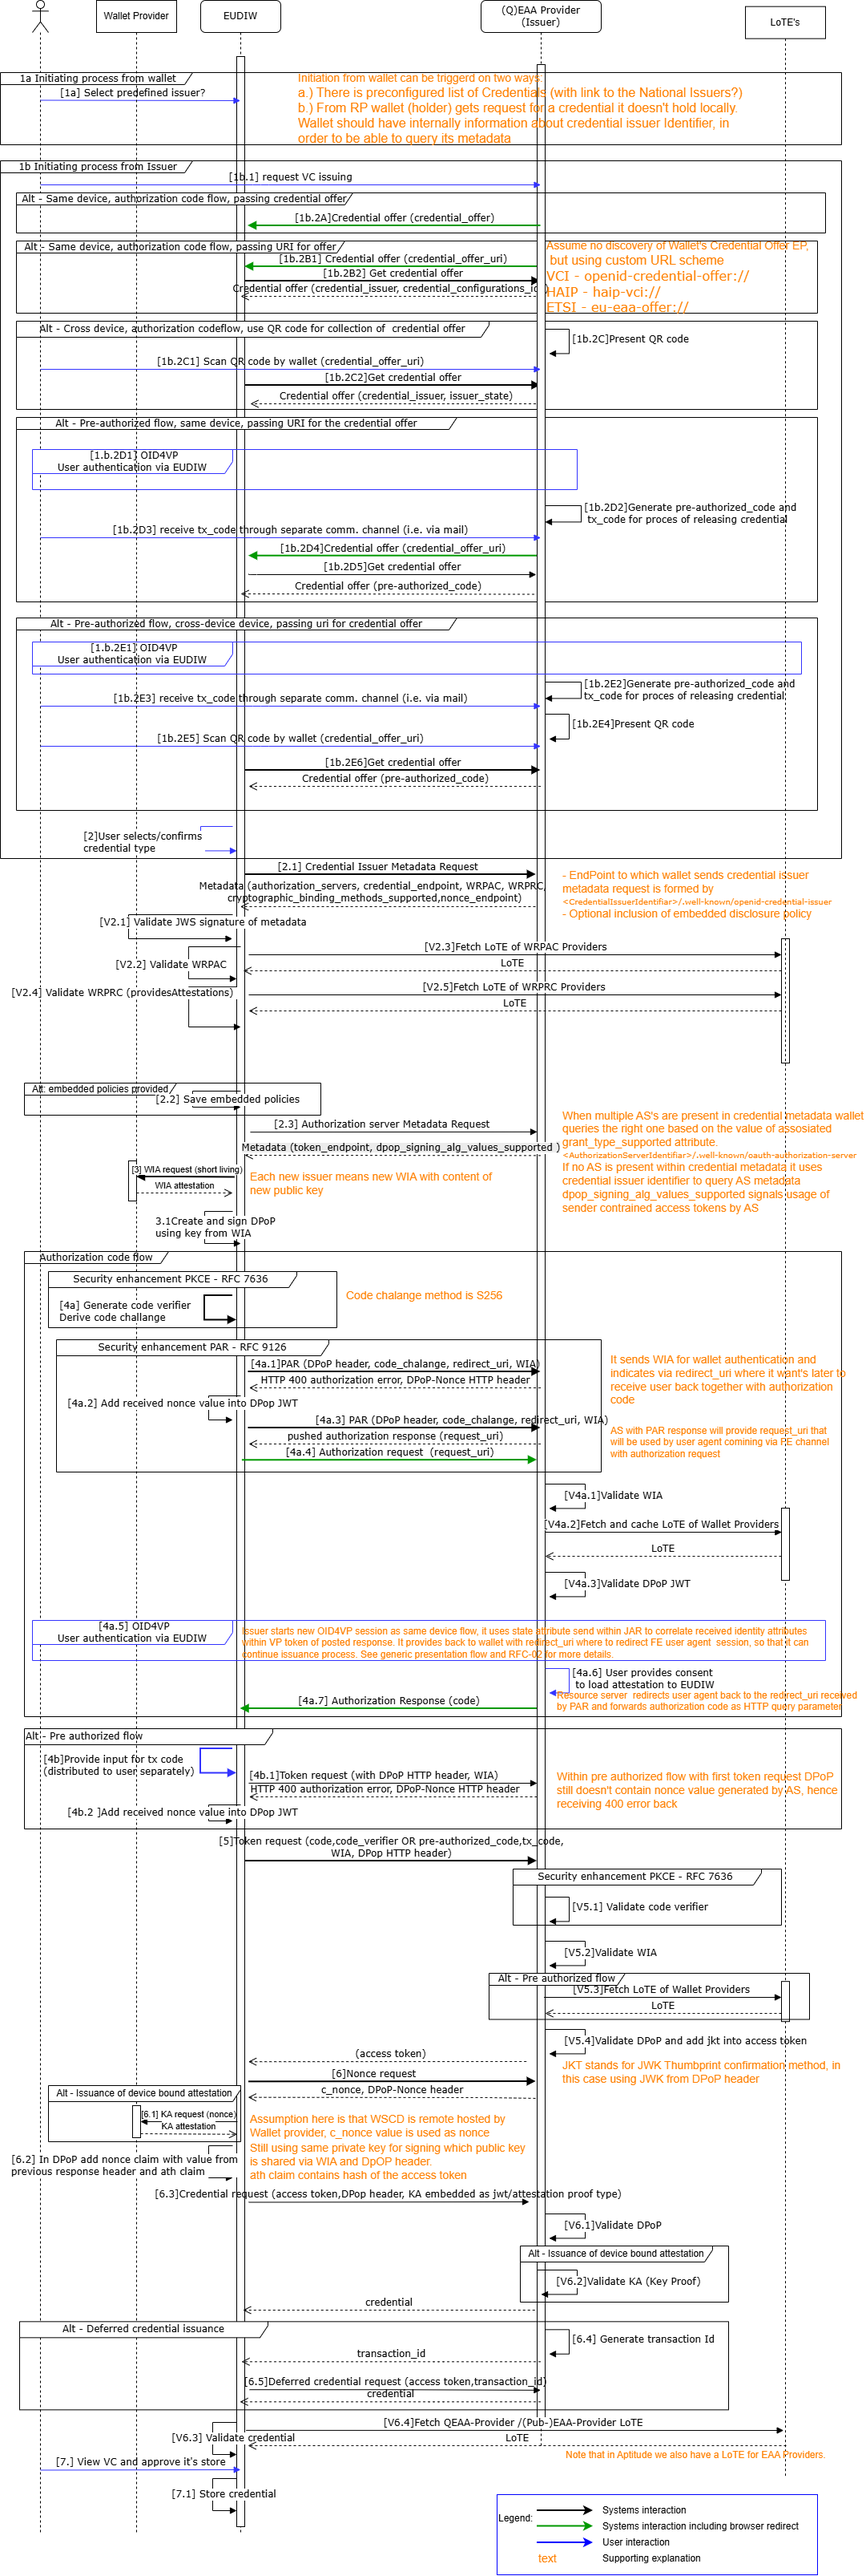
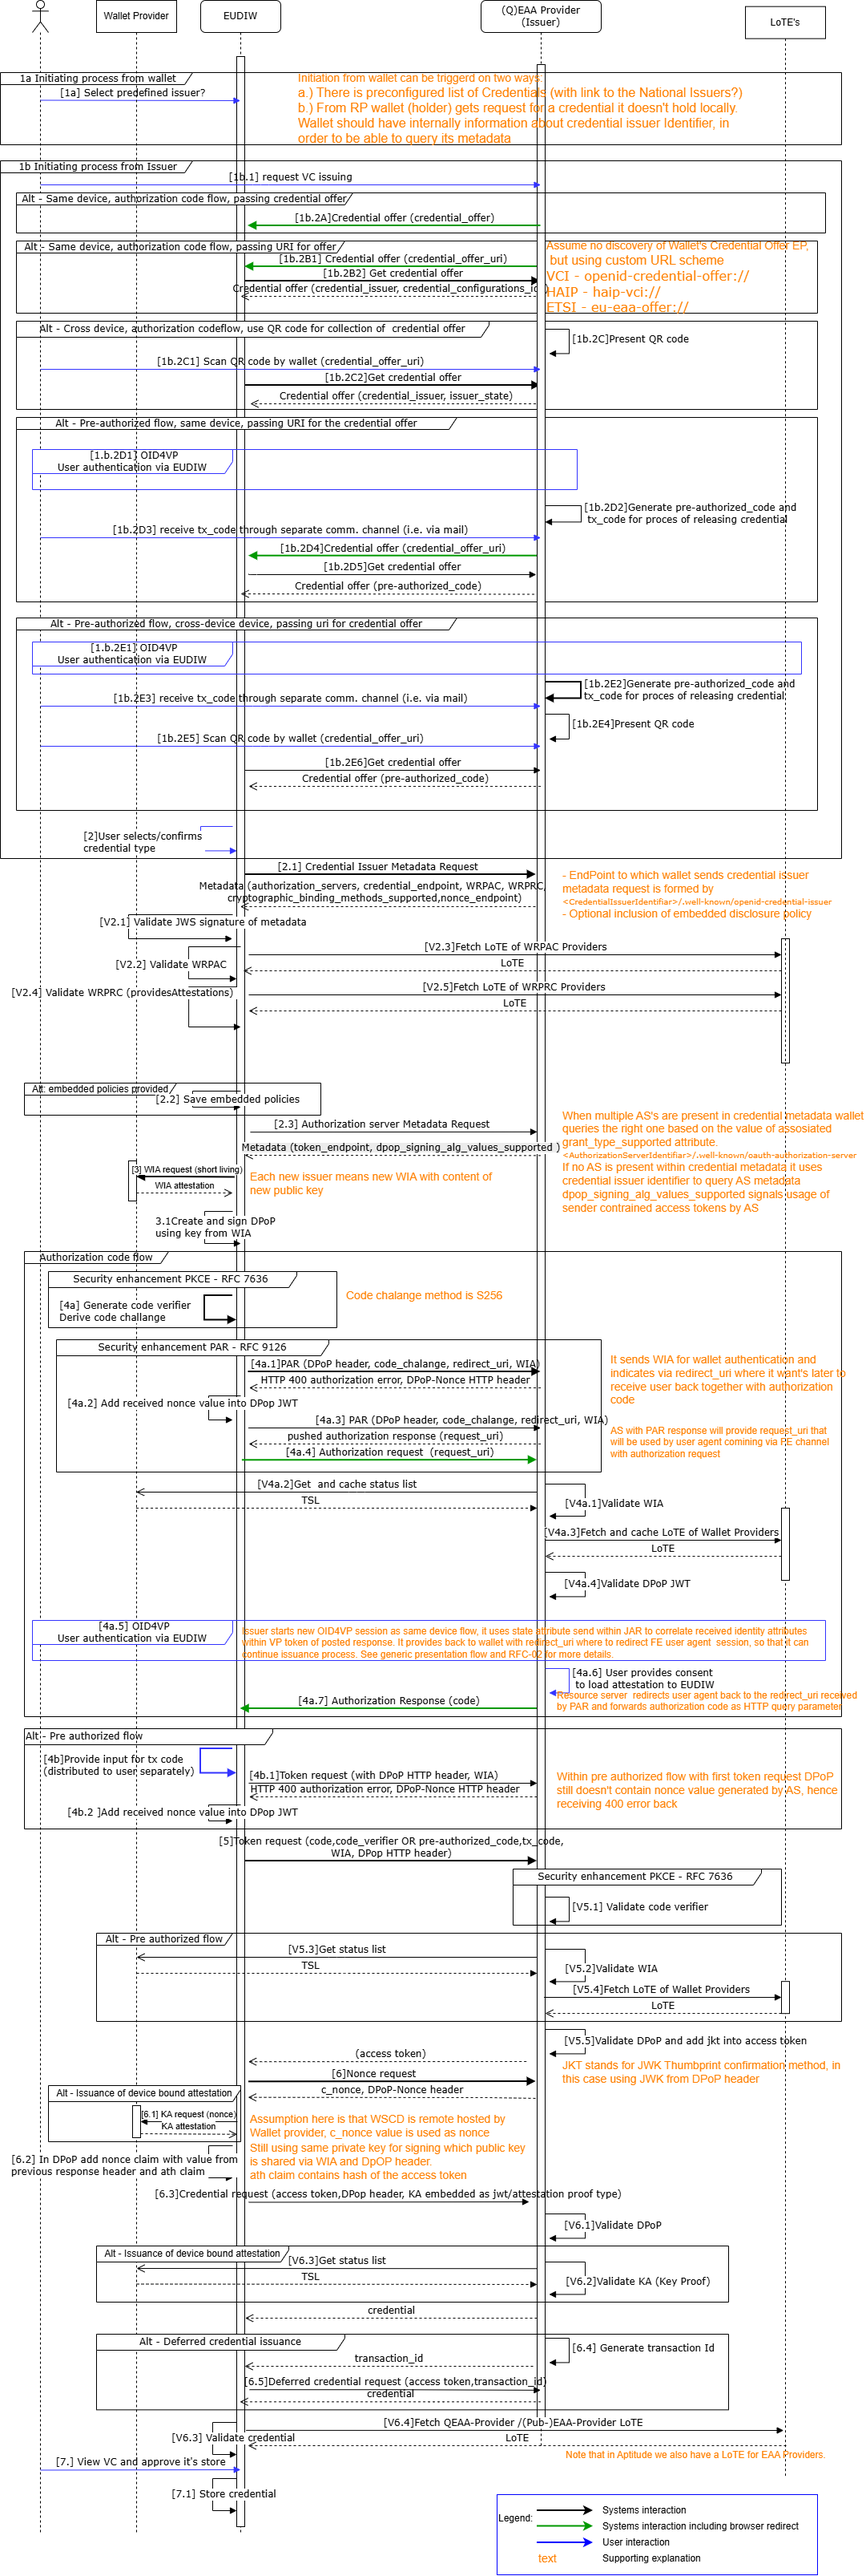
Adding Get status list calls for WIA/KA revocation checks
Making flow version 0.91 by:
- Adding get status list calls to the sequence diagram
- rearranging mapping section

diff --git a/docs/wp2/Generic issuance flow specification.md b/docs/wp2/Generic issuance flow specification.md
@@ -1,7 +1,7 @@
 # Generic issuance flow specification
 
-Version 0.9 (draft)
-Date 18-08-2026
+Version 0.91 (draft)
+Date 20-08-2026
 
 ## Authors
 
@@ -361,7 +361,7 @@ href="https://aptitude-consortium.github.io/wp2-trust-specifications/latest/sect
 <td></td>
 </tr>
 <tr>
-<td>V2.3, V2.5, V4a.2, V5.3, V6.4</td>
+<td>V2.3, V2.5, V4a.3, V5.4, V6.4</td>
 <td>Get LoTE</td>
 <td><p><a
 href="https://github.com/APTITUDE-Consortium/aptitude-eudi-wallet-specs/blob/rfc003-trust/docs/horizontal-RFCs/RFC003.md#71-lote-endpoint">RFC003
@@ -430,7 +430,15 @@ href="https://github.com/APTITUDE-Consortium/aptitude-eudi-wallet-specs/blob/mai
 <td></td>
 </tr>
 <tr>
-<td>V4a.3, V5.4, V6.1</td>
+<td>V4a.2, V5.3, V6.3</td>
+<td>Get Status list</td>
+<td>
+  <p>TODO: Add trust link</p>
+</td>
+<td></td>
+</tr>
+<tr>
+<td>V4a.4, V5.5, V6.1</td>
 <td>Validate DPoP</td>
 <td></td>
 <td></td>
